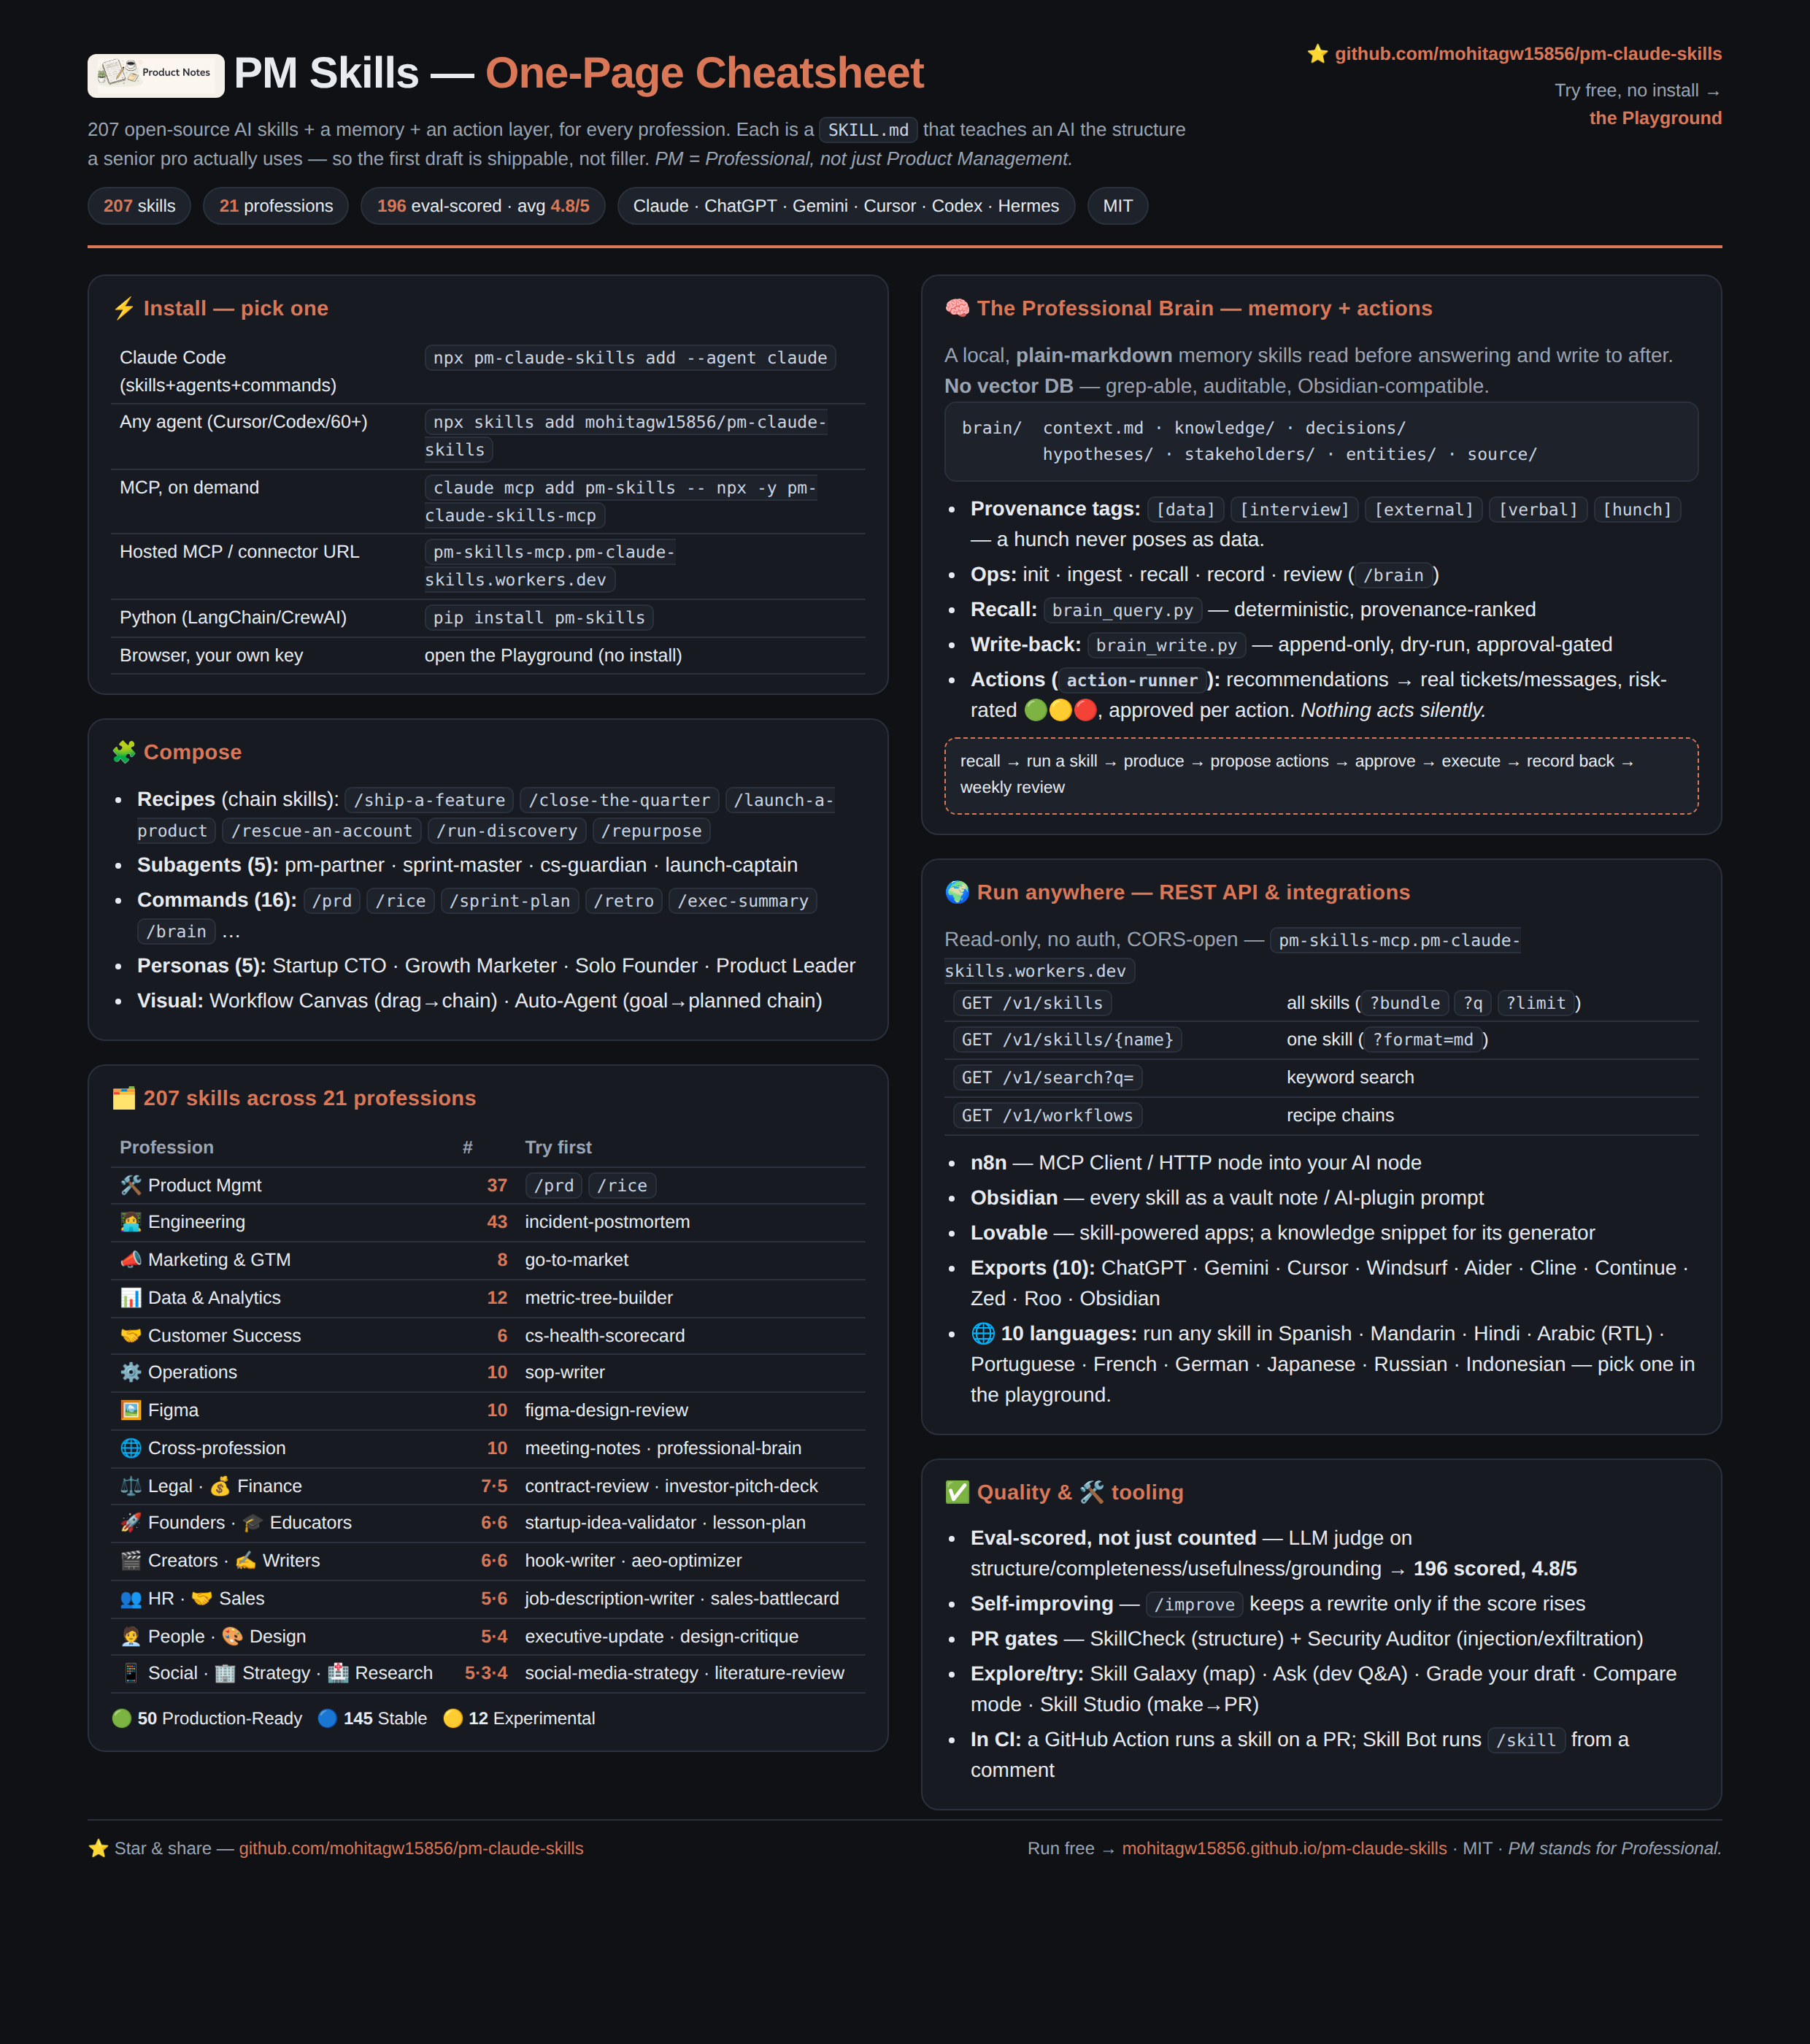
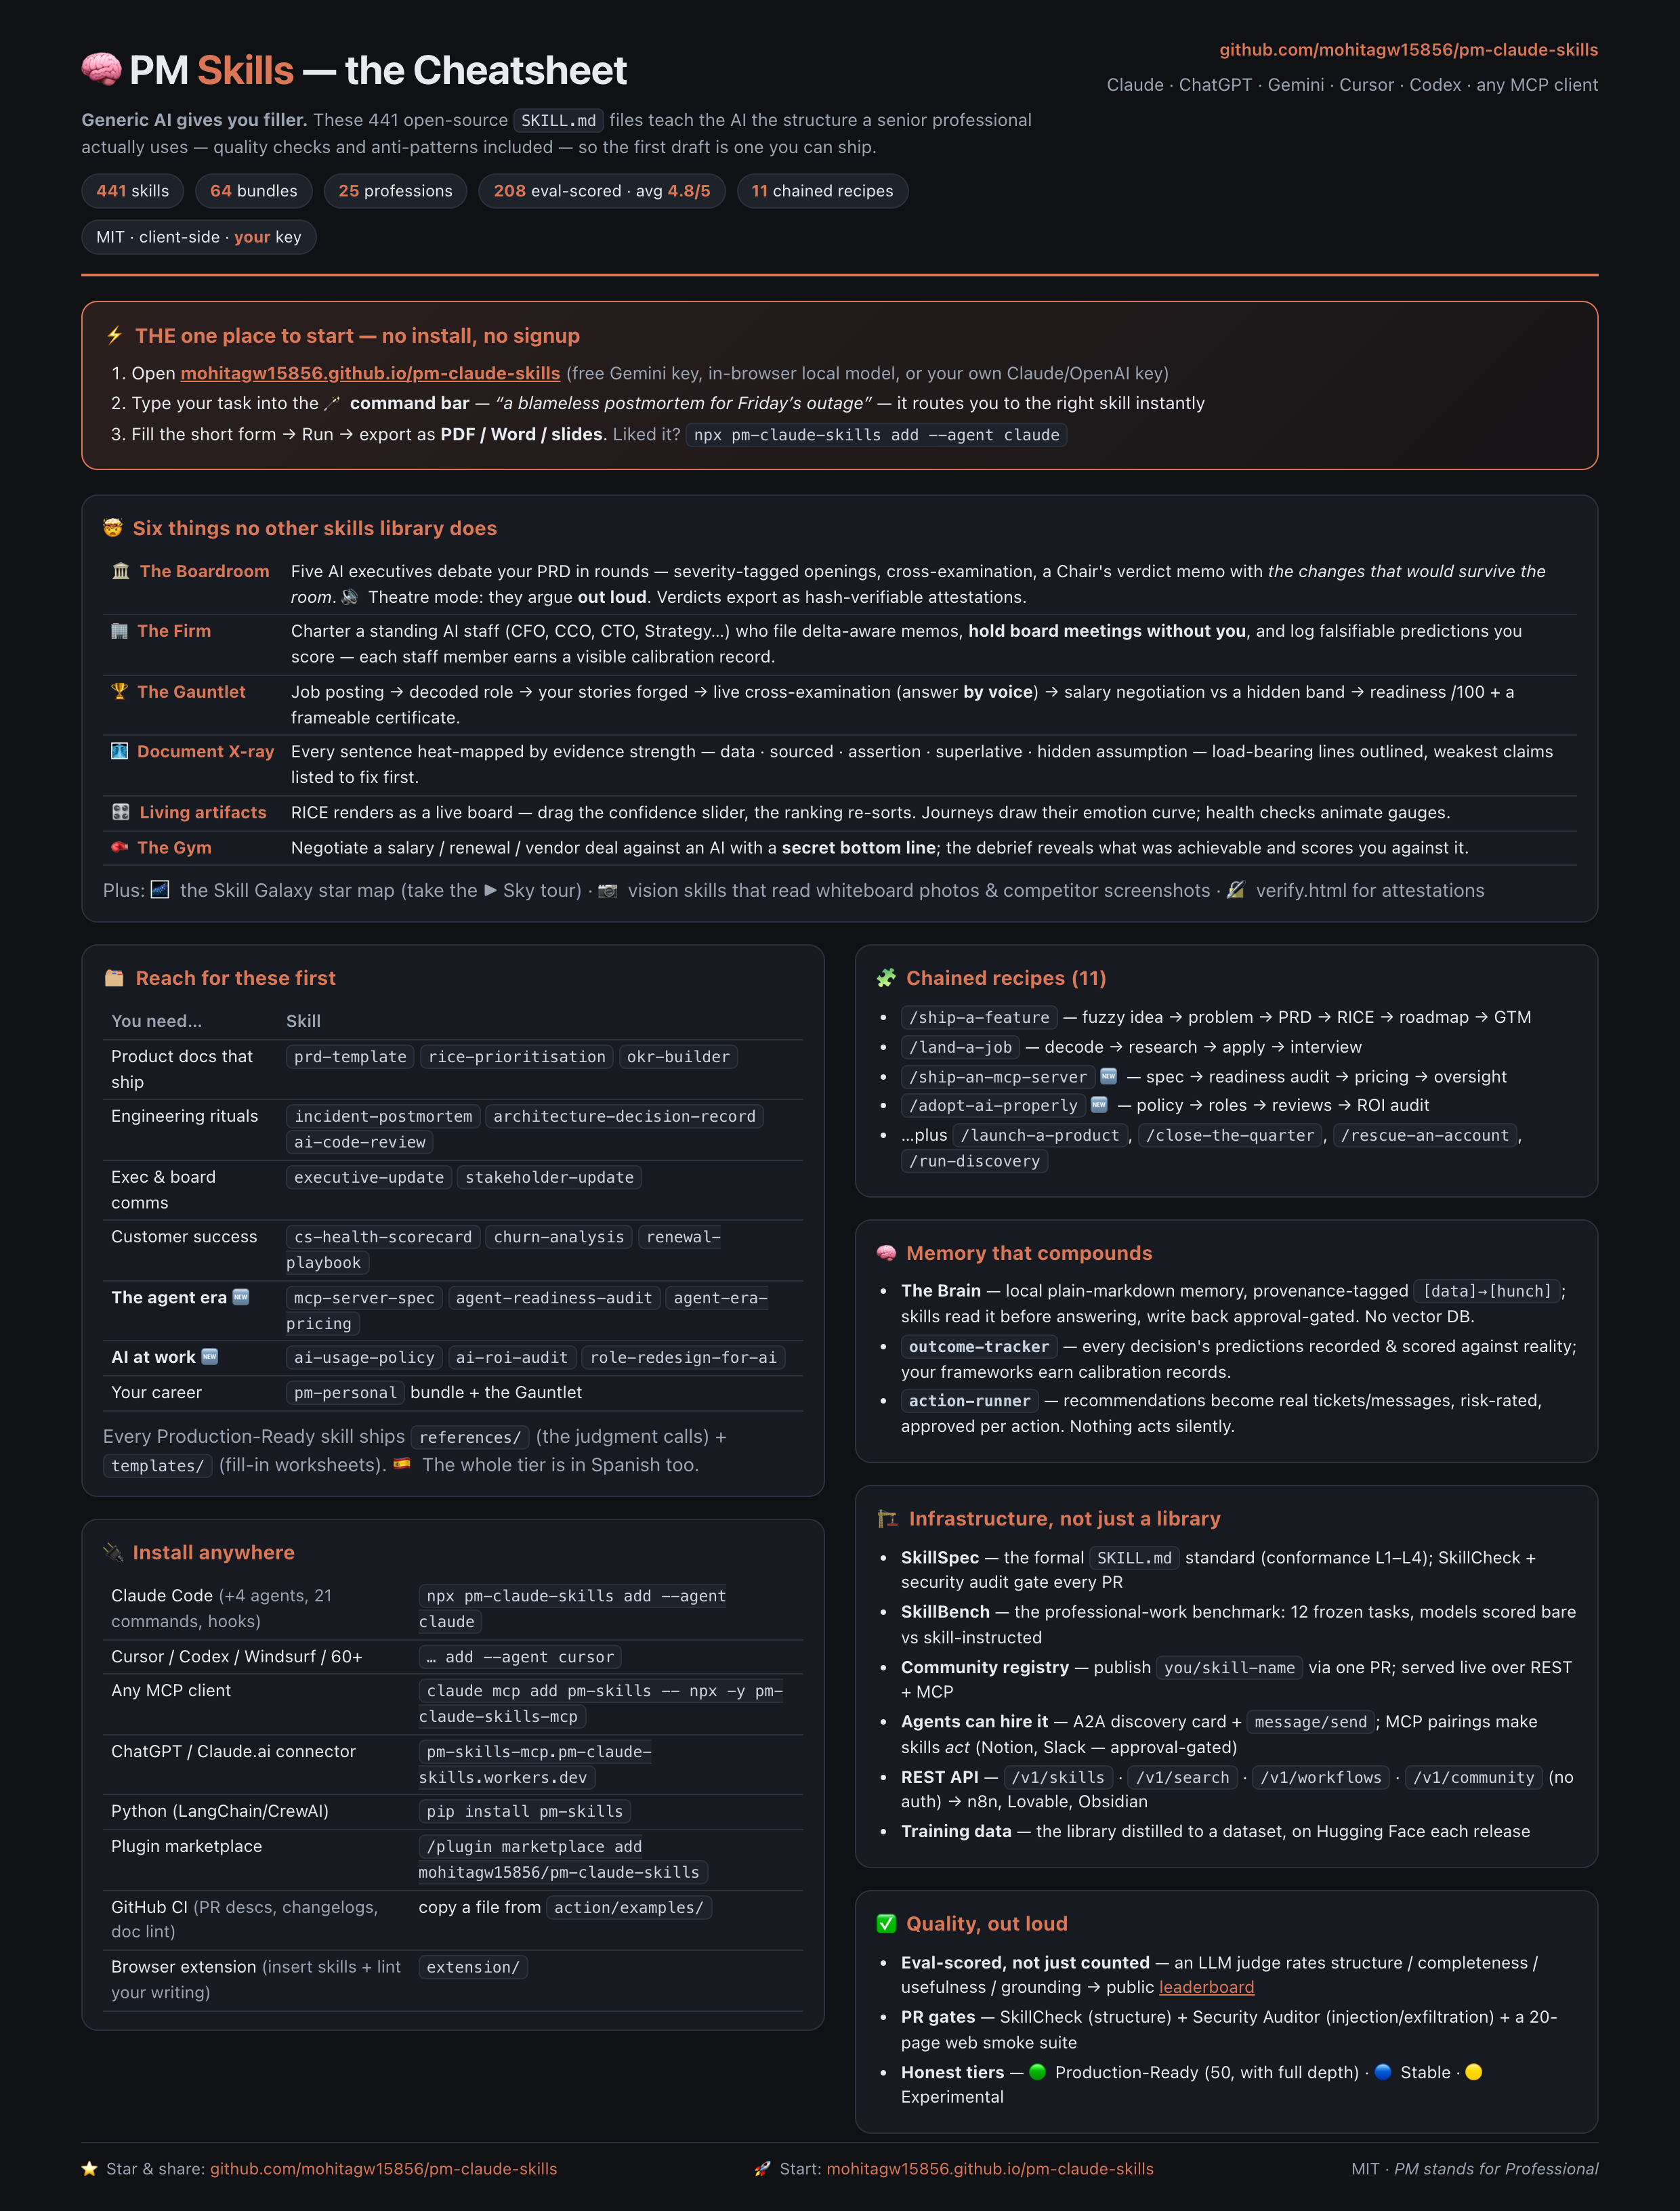
docs: cheatsheet poster rebuilt for the v42-era repo + rendered PNG/PDF
web/cheatsheet.html now mirrors the new CHEATSHEET.md: the one-link
start path, the six standout features, install one-liners, recipes,
Brain/calibration, and the infrastructure story. Rendered fresh
docs-assets/cheatsheet.png (2x) and single-page .pdf; README section
now links direct downloads and the live poster.

diff --git a/web/cheatsheet.html b/web/cheatsheet.html
@@ -1,13 +1,13 @@
 <!DOCTYPE html>
-<!-- Printable / shareable one-page cheatsheet poster. Self-contained (no external assets).
+<!-- Printable / shareable cheatsheet poster. Self-contained (no external assets).
      Open in a browser → Print → Save as PDF, or render with web/docs-assets/shoot.mjs
      (PAGES=cheatsheet) to docs-assets/cheatsheet.png / .pdf. Content mirrors CHEATSHEET.md. -->
 <html lang="en">
 <head>
 <meta charset="utf-8" />
 <meta name="viewport" content="width=device-width, initial-scale=1" />
-<title>PM Skills — One-Page Cheatsheet</title>
-<meta name="description" content="244 open-source AI skills + memory + actions for every profession. Install, run anywhere, the Professional Brain, REST API, integrations, and quality tooling — on one page." />
+<title>PM Skills — the Cheatsheet</title>
+<meta name="description" content="441 open-source AI skills, an executive Boardroom, a standing AI staff, the professional-work benchmark, and one link to start — on one poster." />
 <style>
   :root{
     --bg:#0f1115; --panel:#171a21; --panel2:#1d222b; --ink:#e7ebf0; --muted:#9aa4b2;
@@ -18,7 +18,6 @@
     font:14px/1.5 -apple-system,BlinkMacSystemFont,"Segoe UI",Inter,Roboto,Helvetica,Arial,sans-serif;
     -webkit-font-smoothing:antialiased;}
   .sheet{max-width:1180px;margin:0 auto;padding:28px 30px 22px;}
-  /* Header */
   header{display:flex;align-items:flex-start;justify-content:space-between;gap:18px;
     border-bottom:2px solid var(--brand);padding-bottom:14px;margin-bottom:18px;}
   h1{font-size:30px;margin:0;letter-spacing:-.5px}
@@ -30,30 +29,25 @@
   .pill b{color:var(--brand)}
   .repo{text-align:right;flex:0 0 auto;font-size:12.5px}
   .repo a{color:var(--brand);text-decoration:none;font-weight:600}
-  .repo .qr{margin-top:6px;color:var(--muted)}
-  /* Grid */
+  .start{background:linear-gradient(135deg,rgba(217,119,87,.14),rgba(217,119,87,.04));
+    border:1.5px solid var(--brand);border-radius:12px;padding:13px 16px;margin:0 0 18px}
+  .start h2{font-size:15px;margin:0 0 7px;color:var(--brand)}
+  .start ol{margin:0;padding-left:20px}.start li{margin:3px 0;font-size:13px}
   .cols{column-count:2;column-gap:22px}
   @media (max-width:820px){.cols{column-count:1}}
   .card{break-inside:avoid;background:var(--panel);border:1px solid var(--line);
     border-radius:12px;padding:13px 15px;margin:0 0 16px}
   .card h2{font-size:14.5px;margin:0 0 9px;color:var(--brand);
     display:flex;align-items:center;gap:7px;letter-spacing:.2px}
-  .card.wide{column-span:all}
   table{width:100%;border-collapse:collapse;font-size:12.5px}
   td,th{text-align:left;padding:3px 6px;vertical-align:top;border-bottom:1px solid var(--line)}
   th{color:var(--muted);font-weight:600}
-  td.n{color:var(--brand);font-weight:700;text-align:right;white-space:nowrap}
+  td.n{color:var(--brand);font-weight:700;white-space:nowrap}
   code,.k{font-family:ui-monospace,SFMono-Regular,Menlo,Consolas,monospace;
     background:var(--panel2);border:1px solid var(--line);border-radius:5px;
     padding:1px 5px;font-size:11.5px;color:var(--code)}
-  .mono{font-family:ui-monospace,SFMono-Regular,Menlo,Consolas,monospace;font-size:11.5px;
-    background:var(--panel2);border:1px solid var(--line);border-radius:8px;padding:9px 11px;color:var(--code);
-    white-space:pre-wrap;line-height:1.55}
-  ul{margin:0;padding-left:18px} li{margin:3px 0}
+  ul{margin:0;padding-left:18px} li{margin:3px 0;font-size:12.5px}
   .lead{color:var(--muted)}
-  .loop{background:var(--panel2);border:1px dashed var(--brand);border-radius:8px;
-    padding:8px 10px;font-size:11.5px;color:var(--ink);margin-top:8px}
-  .tiers span{display:inline-block;margin-right:10px}
   footer{margin-top:6px;border-top:1px solid var(--line);padding-top:10px;
     color:var(--muted);font-size:12px;display:flex;justify-content:space-between;gap:12px;flex-wrap:wrap}
   footer a{color:var(--brand);text-decoration:none}
@@ -62,123 +56,128 @@
 </head>
 <body>
 <div class="sheet">
-  <header>
-    <div>
-      <h1><img src="assets/product-notes.jpg" alt="Product Notes" style="height:30px;width:auto;border-radius:6px;background:#f5f1e8;padding:3px 7px;vertical-align:-7px;margin-right:6px" />PM Skills — <span class="em">One-Page Cheatsheet</span></h1>
-      <div class="tag">244 open-source AI skills + a memory + an action layer, for every profession. Each is a <code>SKILL.md</code> that teaches an AI the structure a senior pro actually uses — so the first draft is shippable, not filler. <i>PM = Professional, not just Product Management.</i></div>
-      <div class="stats">
-        <span class="pill"><b>244</b> skills</span>
-        <span class="pill"><b>21</b> professions</span>
-        <span class="pill"><b>196</b> eval-scored · avg <b>4.8/5</b></span>
-        <span class="pill">Claude · ChatGPT · Gemini · Cursor · Codex · Hermes</span>
-        <span class="pill">MIT</span>
-      </div>
-    </div>
-    <div class="repo">
-      ⭐ <a href="https://github.com/mohitagw15856/pm-claude-skills">github.com/mohitagw15856/pm-claude-skills</a>
-      <div class="qr">Try free, no install →<br><a href="https://mohitagw15856.github.io/pm-claude-skills/?ref=cheatsheet">the Playground</a></div>
-    </div>
-  </header>
 
-  <div class="cols">
-
-    <div class="card">
-      <h2>⚡ Install — pick one</h2>
-      <table>
-        <tr><td>Claude Code (skills+agents+commands)</td><td><code>npx pm-claude-skills add --agent claude</code></td></tr>
-        <tr><td>Any agent (Cursor/Codex/60+)</td><td><code>npx skills add mohitagw15856/pm-claude-skills</code></td></tr>
-        <tr><td>MCP, on demand</td><td><code>claude mcp add pm-skills -- npx -y pm-claude-skills-mcp</code></td></tr>
-        <tr><td>Hosted MCP / connector URL</td><td><code>pm-skills-mcp.pm-claude-skills.workers.dev</code></td></tr>
-        <tr><td>Python (LangChain/CrewAI)</td><td><code>pip install pm-skills</code></td></tr>
-        <tr><td>Browser, your own key</td><td>open the Playground (no install)</td></tr>
-      </table>
+<header>
+  <div>
+    <h1>🧠 PM <span class="em">Skills</span> — the Cheatsheet</h1>
+    <div class="tag"><b>Generic AI gives you filler.</b> These 441 open-source <code>SKILL.md</code> files teach the AI the structure a senior professional actually uses — quality checks and anti-patterns included — so the first draft is one you can ship.</div>
+    <div class="stats">
+      <span class="pill"><b>441</b> skills</span>
+      <span class="pill"><b>64</b> bundles</span>
+      <span class="pill"><b>25</b> professions</span>
+      <span class="pill"><b>208</b> eval-scored · avg <b>4.8/5</b></span>
+      <span class="pill"><b>11</b> chained recipes</span>
+      <span class="pill">MIT · client-side · <b>your</b> key</span>
     </div>
-
-    <div class="card">
-      <h2>🧩 Compose</h2>
-      <ul>
-        <li><b>Recipes</b> (chain skills): <code>/ship-a-feature</code> <code>/close-the-quarter</code> <code>/launch-a-product</code> <code>/rescue-an-account</code> <code>/run-discovery</code> <code>/repurpose</code></li>
-        <li><b>Subagents (5):</b> pm-partner · sprint-master · cs-guardian · launch-captain</li>
-        <li><b>Commands (16):</b> <code>/prd</code> <code>/rice</code> <code>/sprint-plan</code> <code>/retro</code> <code>/exec-summary</code> <code>/brain</code> …</li>
-        <li><b>Personas (5):</b> Startup CTO · Growth Marketer · Solo Founder · Product Leader</li>
-        <li><b>Visual:</b> Workflow Canvas (drag→chain) · Auto-Agent (goal→planned chain)</li>
-      </ul>
-    </div>
-
-    <div class="card">
-      <h2>🗂️ 244 skills across 21 professions</h2>
-      <table>
-        <tr><th>Profession</th><th class="n">#</th><th>Try first</th></tr>
-        <tr><td>🛠️ Product Mgmt</td><td class="n">37</td><td><code>/prd</code> <code>/rice</code></td></tr>
-        <tr><td>👩💻 Engineering</td><td class="n">43</td><td>incident-postmortem</td></tr>
-        <tr><td>📣 Marketing & GTM</td><td class="n">8</td><td>go-to-market</td></tr>
-        <tr><td>📊 Data & Analytics</td><td class="n">12</td><td>metric-tree-builder</td></tr>
-        <tr><td>🤝 Customer Success</td><td class="n">6</td><td>cs-health-scorecard</td></tr>
-        <tr><td>⚙️ Operations</td><td class="n">10</td><td>sop-writer</td></tr>
-        <tr><td>🖼️ Figma</td><td class="n">10</td><td>figma-design-review</td></tr>
-        <tr><td>🌐 Cross-profession</td><td class="n">10</td><td>meeting-notes · professional-brain</td></tr>
-        <tr><td>⚖️ Legal · 💰 Finance</td><td class="n">7·5</td><td>contract-review · investor-pitch-deck</td></tr>
-        <tr><td>🚀 Founders · 🎓 Educators</td><td class="n">6·6</td><td>startup-idea-validator · lesson-plan</td></tr>
-        <tr><td>🎬 Creators · ✍️ Writers</td><td class="n">6·6</td><td>hook-writer · aeo-optimizer</td></tr>
-        <tr><td>👥 HR · 🤝 Sales</td><td class="n">5·6</td><td>job-description-writer · sales-battlecard</td></tr>
-        <tr><td>🧑💼 People · 🎨 Design</td><td class="n">5·4</td><td>executive-update · design-critique</td></tr>
-        <tr><td>📱 Social · 🏢 Strategy · 🏥 Research</td><td class="n">5·3·4</td><td>social-media-strategy · literature-review</td></tr>
-      </table>
-      <div class="tiers" style="margin-top:8px;font-size:12px">
-        <span>🟢 <b>50</b> Production-Ready</span><span>🔵 <b>145</b> Stable</span><span>🟡 <b>12</b> Experimental</span>
-      </div>
-    </div>
-
-    <div class="card">
-      <h2>🧠 The Professional Brain — memory + actions</h2>
-      <div class="lead">A local, <b>plain-markdown</b> memory skills read before answering and write to after. <b>No vector DB</b> — grep-able, auditable, Obsidian-compatible.</div>
-      <div class="mono">brain/  context.md · knowledge/ · decisions/
-        hypotheses/ · stakeholders/ · entities/ · source/</div>
-      <ul style="margin-top:8px">
-        <li><b>Provenance tags:</b> <code>[data]</code> <code>[interview]</code> <code>[external]</code> <code>[verbal]</code> <code>[hunch]</code> — a hunch never poses as data.</li>
-        <li><b>Ops:</b> init · ingest · recall · record · review (<code>/brain</code>)</li>
-        <li><b>Recall:</b> <code>brain_query.py</code> — deterministic, provenance-ranked</li>
-        <li><b>Write-back:</b> <code>brain_write.py</code> — append-only, dry-run, approval-gated</li>
-        <li><b>Actions (<code>action-runner</code>):</b> recommendations → real tickets/messages, risk-rated 🟢🟡🔴, approved per action. <i>Nothing acts silently.</i></li>
-      </ul>
-      <div class="loop">recall → run a skill → produce → propose actions → approve → execute → record back → weekly review</div>
-    </div>
-
-    <div class="card">
-      <h2>🌍 Run anywhere — REST API & integrations</h2>
-      <div class="lead">Read-only, no auth, CORS-open — <code>pm-skills-mcp.pm-claude-skills.workers.dev</code></div>
-      <table>
-        <tr><td><code>GET /v1/skills</code></td><td>all skills (<code>?bundle</code> <code>?q</code> <code>?limit</code>)</td></tr>
-        <tr><td><code>GET /v1/skills/{name}</code></td><td>one skill (<code>?format=md</code>)</td></tr>
-        <tr><td><code>GET /v1/search?q=</code></td><td>keyword search</td></tr>
-        <tr><td><code>GET /v1/workflows</code></td><td>recipe chains</td></tr>
-      </table>
-      <ul style="margin-top:8px">
-        <li><b>n8n</b> — MCP Client / HTTP node into your AI node</li>
-        <li><b>Obsidian</b> — every skill as a vault note / AI-plugin prompt</li>
-        <li><b>Lovable</b> — skill-powered apps; a knowledge snippet for its generator</li>
-        <li><b>Exports (10):</b> ChatGPT · Gemini · Cursor · Windsurf · Aider · Cline · Continue · Zed · Roo · Obsidian</li>
-        <li><b>🌐 10 languages:</b> run any skill in Spanish · Mandarin · Hindi · Arabic (RTL) · Portuguese · French · German · Japanese · Russian · Indonesian — pick one in the playground.</li>
-      </ul>
-    </div>
-
-    <div class="card">
-      <h2>✅ Quality & 🛠️ tooling</h2>
-      <ul>
-        <li><b>Eval-scored, not just counted</b> — LLM judge on structure/completeness/usefulness/grounding → <b>196 scored, 4.8/5</b></li>
-        <li><b>Self-improving</b> — <code>/improve</code> keeps a rewrite only if the score rises</li>
-        <li><b>PR gates</b> — SkillCheck (structure) + Security Auditor (injection/exfiltration)</li>
-        <li><b>Explore/try:</b> Skill Galaxy (map) · Ask (dev Q&A) · Grade your draft · Compare mode · Skill Studio (make→PR)</li>
-        <li><b>In CI:</b> a GitHub Action runs a skill on a PR; Skill Bot runs <code>/skill</code> from a comment</li>
-      </ul>
-    </div>
-
   </div>
+  <div class="repo">
+    <a href="https://github.com/mohitagw15856/pm-claude-skills">github.com/mohitagw15856/pm-claude-skills</a>
+    <div class="tag" style="text-align:right">Claude · ChatGPT · Gemini · Cursor · Codex · any MCP client</div>
+  </div>
+</header>
 
-  <footer>
-    <div>⭐ Star &amp; share — <a href="https://github.com/mohitagw15856/pm-claude-skills">github.com/mohitagw15856/pm-claude-skills</a></div>
-    <div>Run free → <a href="https://mohitagw15856.github.io/pm-claude-skills/?ref=cheatsheet">mohitagw15856.github.io/pm-claude-skills</a> · MIT · <i>PM stands for Professional.</i></div>
-  </footer>
+<div class="start">
+  <h2>⚡ THE one place to start — no install, no signup</h2>
+  <ol>
+    <li>Open <a href="https://mohitagw15856.github.io/pm-claude-skills/?ref=cheatsheet" style="color:var(--brand);font-weight:700">mohitagw15856.github.io/pm-claude-skills</a> <span class="lead">(free Gemini key, in-browser local model, or your own Claude/OpenAI key)</span></li>
+    <li>Type your task into the <b>🪄 command bar</b> — <i>“a blameless postmortem for Friday’s outage”</i> — it routes you to the right skill instantly</li>
+    <li>Fill the short form → Run → export as <b>PDF / Word / slides</b>. <span class="lead">Liked it?</span> <code>npx pm-claude-skills add --agent claude</code></li>
+  </ol>
+</div>
+
+<div class="card">
+  <h2>🤯 Six things no other skills library does</h2>
+  <table>
+    <tr><td class="n">🏛 The Boardroom</td><td>Five AI executives debate your PRD in rounds — severity-tagged openings, cross-examination, a Chair's verdict memo with <i>the changes that would survive the room</i>. 🔊 Theatre mode: they argue <b>out loud</b>. Verdicts export as hash-verifiable attestations.</td></tr>
+    <tr><td class="n">🏢 The Firm</td><td>Charter a standing AI staff (CFO, CCO, CTO, Strategy…) who file delta-aware memos, <b>hold board meetings without you</b>, and log falsifiable predictions you score — each staff member earns a visible calibration record.</td></tr>
+    <tr><td class="n">🏆 The Gauntlet</td><td>Job posting → decoded role → your stories forged → live cross-examination (answer <b>by voice</b>) → salary negotiation vs a hidden band → readiness /100 + a frameable certificate.</td></tr>
+    <tr><td class="n">🩻 Document X-ray</td><td>Every sentence heat-mapped by evidence strength — data · sourced · assertion · superlative · hidden assumption — load-bearing lines outlined, weakest claims listed to fix first.</td></tr>
+    <tr><td class="n">🎛 Living artifacts</td><td>RICE renders as a live board — drag the confidence slider, the ranking re-sorts. Journeys draw their emotion curve; health checks animate gauges.</td></tr>
+    <tr><td class="n">🥊 The Gym</td><td>Negotiate a salary / renewal / vendor deal against an AI with a <b>secret bottom line</b>; the debrief reveals what was achievable and scores you against it.</td></tr>
+  </table>
+  <div class="lead" style="margin-top:7px">Plus: 🌌 the Skill Galaxy star map (take the ▶ Sky tour) · 📷 vision skills that read whiteboard photos &amp; competitor screenshots · 🔏 verify.html for attestations</div>
+</div>
+
+<div class="cols">
+
+<div class="card">
+  <h2>🗂 Reach for these first</h2>
+  <table>
+    <tr><th>You need…</th><th>Skill</th></tr>
+    <tr><td>Product docs that ship</td><td><code>prd-template</code> <code>rice-prioritisation</code> <code>okr-builder</code></td></tr>
+    <tr><td>Engineering rituals</td><td><code>incident-postmortem</code> <code>architecture-decision-record</code> <code>ai-code-review</code></td></tr>
+    <tr><td>Exec &amp; board comms</td><td><code>executive-update</code> <code>stakeholder-update</code></td></tr>
+    <tr><td>Customer success</td><td><code>cs-health-scorecard</code> <code>churn-analysis</code> <code>renewal-playbook</code></td></tr>
+    <tr><td><b>The agent era</b> 🆕</td><td><code>mcp-server-spec</code> <code>agent-readiness-audit</code> <code>agent-era-pricing</code></td></tr>
+    <tr><td><b>AI at work</b> 🆕</td><td><code>ai-usage-policy</code> <code>ai-roi-audit</code> <code>role-redesign-for-ai</code></td></tr>
+    <tr><td>Your career</td><td><code>pm-personal</code> bundle + the Gauntlet</td></tr>
+  </table>
+  <div class="lead" style="margin-top:7px">Every Production-Ready skill ships <code>references/</code> (the judgment calls) + <code>templates/</code> (fill-in worksheets). 🇪🇸 The whole tier is in Spanish too.</div>
+</div>
+
+<div class="card">
+  <h2>🔌 Install anywhere</h2>
+  <table>
+    <tr><td>Claude Code <span class="lead">(+4 agents, 21 commands, hooks)</span></td><td><code>npx pm-claude-skills add --agent claude</code></td></tr>
+    <tr><td>Cursor / Codex / Windsurf / 60+</td><td><code>… add --agent cursor</code></td></tr>
+    <tr><td>Any MCP client</td><td><code>claude mcp add pm-skills -- npx -y pm-claude-skills-mcp</code></td></tr>
+    <tr><td>ChatGPT / Claude.ai connector</td><td><code>pm-skills-mcp.pm-claude-skills.workers.dev</code></td></tr>
+    <tr><td>Python (LangChain/CrewAI)</td><td><code>pip install pm-skills</code></td></tr>
+    <tr><td>Plugin marketplace</td><td><code>/plugin marketplace add mohitagw15856/pm-claude-skills</code></td></tr>
+    <tr><td>GitHub CI <span class="lead">(PR descs, changelogs, doc lint)</span></td><td>copy a file from <code>action/examples/</code></td></tr>
+    <tr><td>Browser extension <span class="lead">(insert skills + lint your writing)</span></td><td><code>extension/</code></td></tr>
+  </table>
+</div>
+
+<div class="card">
+  <h2>🧩 Chained recipes (11)</h2>
+  <ul>
+    <li><code>/ship-a-feature</code> — fuzzy idea → problem → PRD → RICE → roadmap → GTM</li>
+    <li><code>/land-a-job</code> — decode → research → apply → interview</li>
+    <li><code>/ship-an-mcp-server</code> 🆕 — spec → readiness audit → pricing → oversight</li>
+    <li><code>/adopt-ai-properly</code> 🆕 — policy → roles → reviews → ROI audit</li>
+    <li>…plus <code>/launch-a-product</code>, <code>/close-the-quarter</code>, <code>/rescue-an-account</code>, <code>/run-discovery</code></li>
+  </ul>
+</div>
+
+<div class="card">
+  <h2>🧠 Memory that compounds</h2>
+  <ul>
+    <li><b>The Brain</b> — local plain-markdown memory, provenance-tagged <code>[data]→[hunch]</code>; skills read it before answering, write back approval-gated. No vector DB.</li>
+    <li><b><code>outcome-tracker</code></b> — every decision's predictions recorded &amp; scored against reality; your frameworks earn calibration records.</li>
+    <li><b><code>action-runner</code></b> — recommendations become real tickets/messages, risk-rated, approved per action. Nothing acts silently.</li>
+  </ul>
+</div>
+
+<div class="card">
+  <h2>🏗 Infrastructure, not just a library</h2>
+  <ul>
+    <li><b>SkillSpec</b> — the formal <code>SKILL.md</code> standard (conformance L1–L4); SkillCheck + security audit gate every PR</li>
+    <li><b>SkillBench</b> — the professional-work benchmark: 12 frozen tasks, models scored bare vs skill-instructed</li>
+    <li><b>Community registry</b> — publish <code>you/skill-name</code> via one PR; served live over REST + MCP</li>
+    <li><b>Agents can hire it</b> — A2A discovery card + <code>message/send</code>; MCP pairings make skills <i>act</i> (Notion, Slack — approval-gated)</li>
+    <li><b>REST API</b> — <code>/v1/skills</code> · <code>/v1/search</code> · <code>/v1/workflows</code> · <code>/v1/community</code> (no auth) → n8n, Lovable, Obsidian</li>
+    <li><b>Training data</b> — the library distilled to a dataset, on Hugging Face each release</li>
+  </ul>
+</div>
+
+<div class="card">
+  <h2>✅ Quality, out loud</h2>
+  <ul>
+    <li><b>Eval-scored, not just counted</b> — an LLM judge rates structure / completeness / usefulness / grounding → public <a href="https://mohitagw15856.github.io/pm-claude-skills/leaderboard.html" style="color:var(--brand)">leaderboard</a></li>
+    <li><b>PR gates</b> — SkillCheck (structure) + Security Auditor (injection/exfiltration) + a 20-page web smoke suite</li>
+    <li><b>Honest tiers</b> — 🟢 Production-Ready (50, with full depth) · 🔵 Stable · 🟡 Experimental</li>
+  </ul>
+</div>
+
+</div>
+
+<footer>
+  <span>⭐ Star &amp; share: <a href="https://github.com/mohitagw15856/pm-claude-skills">github.com/mohitagw15856/pm-claude-skills</a></span>
+  <span>🚀 Start: <a href="https://mohitagw15856.github.io/pm-claude-skills/?ref=cheatsheet">mohitagw15856.github.io/pm-claude-skills</a></span>
+  <span>MIT · <i>PM stands for Professional</i></span>
+</footer>
+
 </div>
 </body>
 </html>

diff --git a/README.md b/README.md
@@ -188,20 +188,20 @@ It's not just text — the playground exports every result as a **professionally
 
 ---
 
-## 📄 One-page cheatsheet
+## 📄 The shareable cheatsheet
 
 <details>
 <summary>Read more ↓</summary>
 
-The whole library on one page — install, all 441 skills by profession, the Professional Brain, the REST API, integrations, and quality tooling. Great to **print, share, or drop into a slide**.
+The whole repo on one poster — the 60-second start path, the six things no other skills library does (Boardroom, Firm, Gauntlet, X-ray, living artifacts, the Gym), install one-liners for every tool, and the infrastructure story. Built to **print, share, or drop into a slide** — with one link to start.
 
 <p align="center">
-  <a href="CHEATSHEET.md">
-    <img src="web/docs-assets/cheatsheet.png" width="80%" alt="PM Skills one-page cheatsheet — 441 skills, the Professional Brain, REST API, integrations, and tooling at a glance." />
+  <a href="https://mohitagw15856.github.io/pm-claude-skills/cheatsheet.html">
+    <img src="web/docs-assets/cheatsheet.png" width="80%" alt="PM Skills cheatsheet — one link to start, the six standout features, install paths for every tool, and the infrastructure story on one poster." />
   </a>
 </p>
 
-**[📥 Markdown](CHEATSHEET.md)** · **[🖼️ PNG](web/docs-assets/cheatsheet.png)** · **[📄 PDF](web/docs-assets/cheatsheet.pdf)** — regenerate the image/PDF with `node web/docs-assets/shoot.mjs` (`PAGES=cheatsheet`).
+**[📥 Markdown](CHEATSHEET.md)** · **[🖼️ Download PNG](https://mohitagw15856.github.io/pm-claude-skills/docs-assets/cheatsheet.png)** · **[📄 Download PDF](https://mohitagw15856.github.io/pm-claude-skills/docs-assets/cheatsheet.pdf)** · **[🌐 Live poster](https://mohitagw15856.github.io/pm-claude-skills/cheatsheet.html)** — regenerate with `PAGES=cheatsheet node web/docs-assets/shoot.mjs`.
 
 > 📖 **Want the full walkthrough?** The **[Practical Guide](web/guide.html)** is a 15-page,
 > example-driven manual — install → your first skill → worked examples (PRD, exec update, RICE,